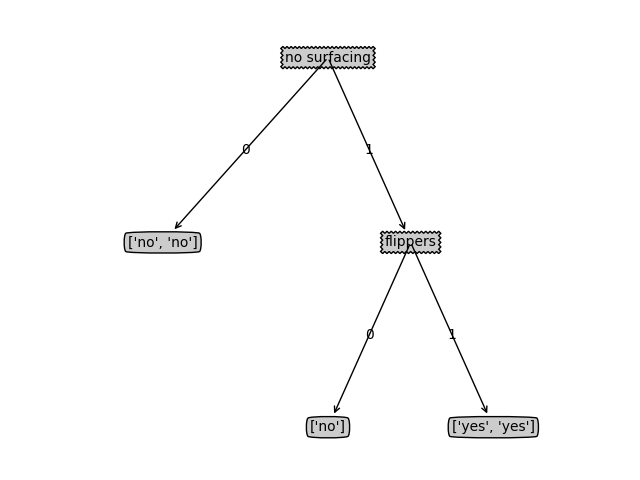
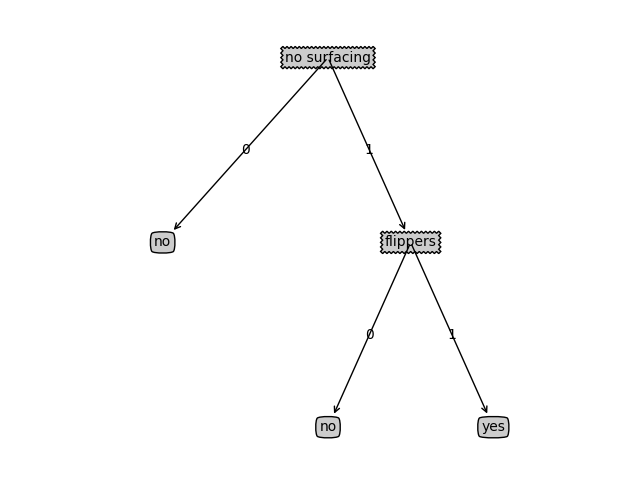
modified decisionTree

Changed region(s): [[0.6875, 0.8438, 0.8438, 0.9375], [0.1875, 0.4688, 0.3125, 0.5312], [0.4688, 0.8438, 0.5625, 0.9375]]

diff --git a/tree/tree.py b/tree/tree.py
@@ -94,7 +94,7 @@ def createTree(dataSet, labels):
     
     # 类别完全相同则停止划分
     if classList.count(classList[0]) == len(classList): # classList[0] 出现了 len(classList) 次
-        return classList
+        return classList[0]
     
     # 遍历完所有特征时返回出现次数最多的
     if len(dataSet[0]) == 1:
@@ -140,7 +140,7 @@ if __name__ == '__main__':
     # print(labels)
     # print(myTree)
     # myTree['no surfacing'][3] = 'maybe'
-    # treePlotter.createPlot(myTree) # 画出决策树
+    treePlotter.createPlot(myTree) # 画出决策树
     a = classify(myTree, labels, [0,0])
     b = classify(myTree, labels, [1,1])
     print(a, b)
